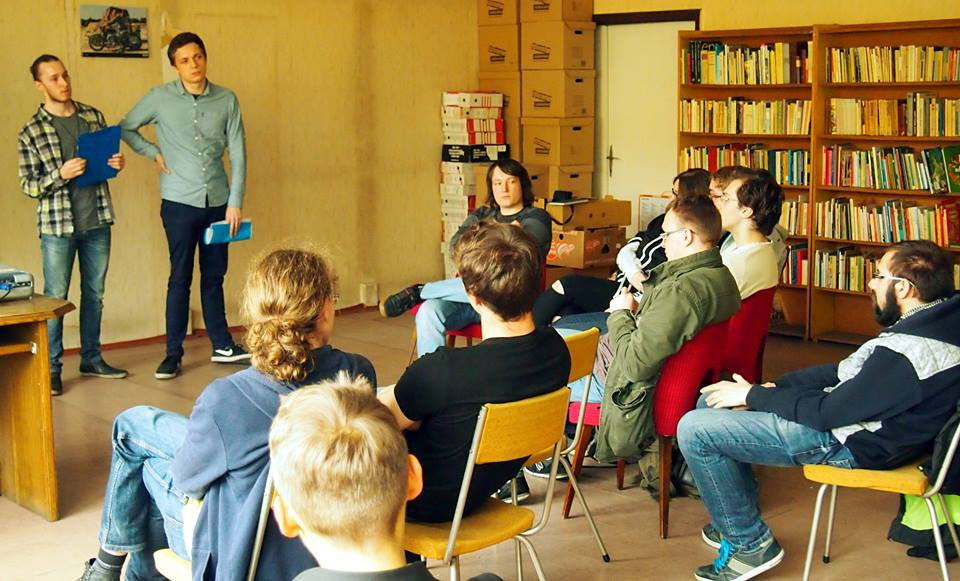
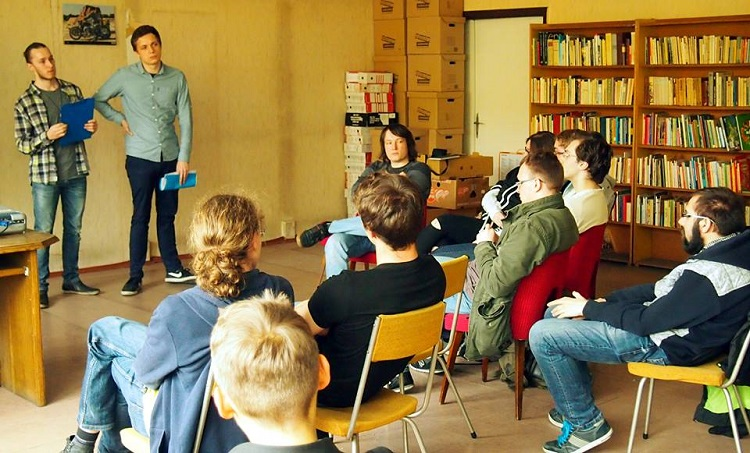
Optymalizacja obrazków/Nowość w Aktualnościach

diff --git a/index.html b/index.html
@@ -44,24 +44,43 @@
 					</header>
 
 				<!-- Main -->
-					<div id="main">
+										<!--Skrypt na pokaż więcej -->
 
-    <!-- Newsy -->
-							<article id="news">
-                                <h1 class="major">Newsy i aktualności <br> o naszym polskim systemie RPG<br>
-                             <h2 class="major"><br><br>Będziemy w Poznaniu!<br>
-                            </b></h2>
-						
-						<!--Skrypt na pokaż więcej -->
+					<div id="main">
 						        <script type="text/javascript" language="JavaScript">
-<!--
+
   function flip(rid)
   {
     current=(document.getElementById(rid).style.display == 'none') ? 'block' : 'none';
     document.getElementById(rid).style.display = current;
   }
-//-->
+
 </script>
+    <!-- Newsy -->
+							<article id="news">
+                                <h1 class="major">Newsy i aktualności <br> o naszym polskim systemie RPG<br>
+									
+									
+									 <h2 class="major"><br><br> Oficjalna Strona Lands of Despair!<br>
+                            </h2>
+						
+
+						
+                        <span class="image main"><img src="images/web.png" alt="" /></span><br>
+                        <A HREF="#" ONCLICK="flip('strona'); return false;"><B><center><h2><u>Czytaj więcej<br><br></u></h2></center></B></A>
+                        <SPAN ID="strona"><SCRIPT LANGUAGE="JAVASCRIPT">flip('strona');</SCRIPT><div>
+                                <p>30 maja  <b>Lands of Despair</b> doczekał się pierwszej oficjalnej wersji strony internetowej. Po kilku tygodniach wytężonej pracy prezentujemy oficjalną witrynę naszego systemu RPG, na którym znajdziecie podstawowe informacje na temat projektu, planowane wydarzenia a także postęp prac nad systemem. W najbliższej przyszłości dołożymy wszelkich starań aby uzupełnić witrynę wiedzą i wiadomościami o świecie i mechanice naszej gry, do tego czasu zapraszamy do przejrzenia wątków już istniejących :). 
+                        </p>
+                             
+							</div></SPAN>
+									
+									
+									
+									
+                             <h2 class="major"><br><br>Będziemy w Poznaniu!<br>
+                            </h2>
+						
+
 						
                         <span class="image main"><img src="images/drugaera.png" alt="" /></span><br>
                         <A HREF="#" ONCLICK="flip('era'); return false;"><B><center><h2><u>Czytaj więcej<br><br></u></h2></center></B></A>
@@ -70,11 +89,11 @@
                                 Link do wydarzenia na Facebooku: <a href=https://web.facebook.com/events/1843129099293613/?acontext=%7B%22ref%22%3A%223%22%2C%22ref_newsfeed_story_type%22%3A%22regular%22%2C%22action_history%22%3A%22null%22%7D><b>TUTAJ</b>.</a><br><br>
                         </p>
                              
-                          </div></span>
+							</div></SPAN>
                                 
 						
 						      <h2 class="major">Relacja z I Otwartych Testów!<br>
-                            </b></h2>
+                            </h2>
                         <span class="image main"><img src="images/artykuly/3-min.jpg" alt="" /></span><br>
                         <A HREF="#" ONCLICK="flip('cb'); return false;"><B><center><h2><u>Czytaj więcej<br><br></u></h2></center></B></A>
                         <SPAN ID="cb"><SCRIPT LANGUAGE="JAVASCRIPT">flip('cb');</SCRIPT><div>
@@ -82,7 +101,7 @@
                                 Zobacz zdjęcia w galerii: <a href=#galeria><b>TUTAJ</b>.</a><br><br>
                         </p>
                              
-                          </div></span>
+							</div></SPAN>
                                 
 						
                        
@@ -94,7 +113,7 @@
                                     <p>W piękne, słoneczne sobotnie popołudnie 13.05.207 po raz pierwszy w historii projektu zanurzyliśmy się w mroczny śwat Krain Rozpaczy wraz z graczami Inowrocławskiego klubu fantastyki "CERBER"!. Zabawa była wyśmienita, uzyskaliśmy opinie, reakcje i odczucia. <br>Zobacz zdjęcia! <a href="http://landsofdespair.pl/#galeria"><b>TUTAJ</b>.</a><br> Zabieramy się do pracy, a już teraz chcielibyśmy gorąco zaprosić wszystkich zainteresowanych na najbliższą prezentację i otwarte testy Lands of Despair w Poznaniu!<br> Więcej info <a href="https://www.facebook.com/events/1843129099293613/"><b>TUTAJ</b>.</a><br><right> Serdecznie Zapraszamy!</right>.<br><br>
                         </p>
                                     
-                                    </div></span>
+									</div></SPAN>
                         
                       
                             
@@ -106,7 +125,7 @@
 								
 								
                         <h2 class="major">Prezentacja w "Maskonie"!<br>
-                            5.05.2017 Bydgoszcz</b></h2>
+                            5.05.2017 Bydgoszcz</h2>
                         <span class="image main"><img src="images/maskon.jpg" alt="" /></span><br>
                         <A HREF="#" ONCLICK="flip('maskon'); return false;"><B><center><h2><u>Czytaj więcej<br><br></u></h2></center></B></A>
                         <SPAN ID="maskon"><SCRIPT LANGUAGE="JAVASCRIPT">flip('maskon');</SCRIPT><div>
@@ -114,8 +133,7 @@
                                 Link do wydarzenia na Facebooku: <a href=https://web.facebook.com/LandsofDespair/posts/424702414569066><b>TUTAJ</b>.</a><br><br>
                         </p>
                              
-                          </div></span>
-                        
+							</div></SPAN>
                         
                         
                         
@@ -142,7 +160,7 @@
 <input type="button" onclick="location.href='http://landsofdespair.pl/#rasy';" value="Rasy" />		
 <input type="button" onclick="location.href='http://landsofdespair.pl/#klasy';" value="Klasy" />	
 <input type="button" onclick="location.href='http://landsofdespair.pl/#moduls';" value="Modułowość" />
-<input type="button" onclick="location.href='http://landsofdespair.pl/#wytrzymalosc';" value="Wytrzymałość" />	
+
 <input type="button" onclick="location.href='http://landsofdespair.pl/#calendar';" value="Kalendarz" />									   
                                
                                
@@ -167,13 +185,13 @@
 <input type="button" onclick="location.href='http://landsofdespair.pl/#rasy';" value="Rasy" />		
 <input type="button" onclick="location.href='http://landsofdespair.pl/#klasy';" value="Klasy" />	
 <input type="button" onclick="location.href='http://landsofdespair.pl/#moduls';" value="Modułowość" />
-<input type="button" onclick="location.href='http://landsofdespair.pl/#wytrzymalosc';" value="Wytrzymałość" />	
+
 <input type="button" onclick="location.href='http://landsofdespair.pl/#calendar';" value="Kalendarz" />									   
                             <br><br></div>
 								<h2 class="major">Koncept</h2>
                
 								<span class="image main"><img src="images/logo.png" alt="" /></span><br><br>
-								<p>Lands of Despair jest autorskim systemem RPG tworzonym przez grupę przyjaciół zafascynowanych Role Play'em. Jesteśmy bardzo niewielką grupą graczy, która od wielu lat hobbistycznie gra i interesuje się systemami RPG. W pewnej chwili założenia rozgrywki systemów, z jakimi mieliśmy styczność, były tak rozbieżne z tym, czego oczekiwaliśmy, że postanowiliśmy działać. Zamiast szukać idealnego dla nas systemu spośród wszystkich (a jest ich niemało), zdecydowaliśmy się na stworzenie własnego, zupełnie od podstaw. <br><br> 
+								<p>Lands of Despair jest polskim systemem RPG tworzonym przez grupę przyjaciół zafascynowanych Role Play'em i światami Dark Fantasy takimi jak Warhammer. Jesteśmy bardzo niewielką grupą graczy, która od wielu lat hobbistycznie gra i interesuje się systemami RPG. W pewnej chwili założenia rozgrywki systemów, z jakimi mieliśmy styczność, były tak rozbieżne z tym, czego oczekiwaliśmy, że postanowiliśmy działać. Zamiast szukać idealnego dla nas systemu spośród wszystkich (a jest ich niemało), lub modyfikowac po raz setny poczciwego Warhammer 'a  zdecydowaliśmy się na stworzenie własnego, zupełnie od podstaw.<font style='opacity:0;'>Warhammer, Warhammer 2ed, Polskie RPG, D&D</font> <br><br> 
 Za cel stawiamy sobie stworzenie mechaniki gry w taki sposób, by stawiała wyzwanie przed graczami, jednocześnie była rozbudowana, lecz prosta i intuicyjna. Za najważniejsze cechy systemu uznaliśmy:<br><br>
 • Jasny i prosty system rozwoju Bohatera i Umiejętności, umożliwiający wiele ścieżek rozgrywki.<br>
 • Cały system rozgrywki jest niemal w całości pozbawionych liczb. Chcemy w ten sposób ułatwić graczowi rozgrywkę, jednocześnie nie rezygnując ze skomplikowania i rozbudowania mechanizmów prowadzących grę.<br>
@@ -181,7 +199,7 @@ Za cel stawiamy sobie stworzenie mechaniki gry w taki sposób, by stawiała wyzw
 • Duży nacisk na rozgrywkę fabularną, skupienie się na osobowości graczy i zwrócenie uwagi na potrzeby Bohatera, takie jak Głód, Zmęczenie czy Zdrowie Psychiczne.<br>
 • Zupełnie inne, w porównaniu do wszystkich znanych nam systemów, podejście do Magii w grze. Używanie jej jest zupełnie dowolne, Gracz może manipulować zaklęciami wedle własnej woli, jednak jest to w pewien sposób ograniczone.<br>
 • Zupełnie autorski świat, całe uniwersum, niepozbawione swojej historii, map, podziału politycznego i wiele innych. <br>
-• I w końcu elastyczność w dobieraniu elementów prowadzenia rozgrywki. Grając w Lands of Despair, grający sami określają jaki elementy zaproponowane przez nas, zostaną przeniesione do ich rozgrywki. W prosty i nie destrukcyjny sposób dla jakości rozgrywki, wiele elementów może zostać pominiętych, lub uproszczonych.<br>
+									• I w końcu elastyczność w dobieraniu elementów prowadzenia rozgrywki. Grając w Lands of Despair, grający sami określają jaki elementy zaproponowane przez nas, zostaną przeniesione do ich rozgrywki. W prosty i nie destrukcyjny sposób dla jakości rozgrywki, wiele elementów może zostać pominiętych, lub uproszczonych.<br>
     </p>
                             
                         </article>
@@ -194,7 +212,7 @@ Za cel stawiamy sobie stworzenie mechaniki gry w taki sposób, by stawiała wyzw
 <input type="button" onclick="location.href='http://landsofdespair.pl/#rasy';" value="Rasy" />		
 <input type="button" onclick="location.href='http://landsofdespair.pl/#klasy';" value="Klasy" />	
 <input type="button" onclick="location.href='http://landsofdespair.pl/#moduls';" value="Modułowość" />
-<input type="button" onclick="location.href='http://landsofdespair.pl/#wytrzymalosc';" value="Wytrzymałość" />	
+
 <input type="button" onclick="location.href='http://landsofdespair.pl/#calendar';" value="Kalendarz" />									   
                                 <br><br></div>
 								<h2 class="major">Kalendarz</h2>
@@ -226,7 +244,7 @@ Za cel stawiamy sobie stworzenie mechaniki gry w taki sposób, by stawiała wyzw
 <input type="button" onclick="location.href='http://landsofdespair.pl/#rasy';" value="Rasy" />		
 <input type="button" onclick="location.href='http://landsofdespair.pl/#klasy';" value="Klasy" />	
 <input type="button" onclick="location.href='http://landsofdespair.pl/#moduls';" value="Modułowość" />
-<input type="button" onclick="location.href='http://landsofdespair.pl/#wytrzymalosc';" value="Wytrzymałość" />	
+
 <input type="button" onclick="location.href='http://landsofdespair.pl/#calendar';" value="Kalendarz" />									                         
                                 <br><br></div>
 								<h2 class="major">Modułowość</h2>
@@ -238,31 +256,15 @@ Modułowość sprawia, że system jest przystępny dla zupełnie każdej grupy g
 Nie ma absolutnie żadnych przeszkód, by z czasem, podczas rozgrywania coraz to kolejnych scenariuszy czy kampanii, dokładać ów moduły do swojej rozgrywki!<br><br>
 Lista modułów:<br>
 <ul>
-                    <li><b>Wytrzymałośc</b> - Moduł wprowadzający do gry element poszerzający odzwierciedlenie stanu zdrowa Bohatera. Przy jego wykorzystaniu Mistrz Gry może kontrolować i wpływać na poziom Głodu, Zmęczenia oraz Stanu Psychicznego Bohaterów, a przed Graczami stanie wyzwanie polegające na zaspokajaniu podstawowych potrzeb swoich protagonistów. Pozwala to na pogłębienie immersji, lepsze określenie stanu prowadzonych przez Graczy Bohaterów i wprowadzenie wyzwania. Koniec z wielodziennymi wyprawami, podczas których Bohaterowie nie sypiają, żadko jedzą, a rozmaite przeżycia nie mają wpływu na ich stan psychiczny!</li><br>
-                    <li><b>Osobowość</b> - Nierzadko zjawisko <i>bezbarwności</i> Bohaterów, tudzież brak charakteru, czy spójnych cech osobowości, doskwiera bardziej doświadczonym graczom. My również zauważyliśmy ów problem i proponujemy proste i skuteczne rozwiązanie. Stosując moduł Osobowości Gracze mają szansę przypisać szereg cech osobowości Bohatera, a Mistrz Gry podczas rozgrywki może wręcz egzekwować ich przestrzegania. Oczywiście Bohater ma prawo zmienić się wraz z czasem, niekiedy rozmaite doświadczenia wpływają na jego charakter, na to również zwróciliśmy naszą uwagę - W podręczniku do gry znajdą się odpowiednie zasady regulujące korzystanie z ów narzędzia. Gwarantujmy, że moduł Osobowości diametralnie zmieni nudnych, nieciekawych protagonistów, w pełnych, określonych, posiadających charakter Bohaterów!</li><br>
+    <li><b>Wytrzymałośc</b> - Moduł wprowadzający do gry element poszerzający odzwierciedlenie stanu zdrowa Bohatera. Przy jego wykorzystaniu Mistrz Gry może kontrolować i wpływać na poziom Głodu, Zmęczenia oraz Stanu Psychicznego Bohaterów, a przed Graczami stanie wyzwanie polegające na zaspokajaniu podstawowych potrzeb swoich protagonistów. Pozwala to na pogłębienie immersji, lepsze określenie stanu prowadzonych przez Graczy Bohaterów i wprowadzenie wyzwania. Koniec z wielodziennymi wyprawami, podczas których Bohaterowie nie sypiają, żadko jedzą, a rozmaite przeżycia nie mają wpływu na ich stan psychiczny!</li><br>
+    <li><b>Osobowość</b> - Nierzadko zjawisko <i>bezbarwności</i> Bohaterów, tudzież brak charakteru, czy spójnych cech osobowości, doskwiera bardziej doświadczonym graczom. My również zauważyliśmy ów problem i proponujemy proste i skuteczne rozwiązanie. Stosując moduł Osobowości Gracze mają szansę przypisać szereg cech osobowości Bohatera, a Mistrz Gry podczas rozgrywki może wręcz egzekwować ich przestrzegania. Oczywiście Bohater ma prawo zmienić się wraz z czasem, niekiedy rozmaite doświadczenia wpływają na jego charakter, na to również zwróciliśmy naszą uwagę - W podręczniku do gry znajdą się odpowiednie zasady regulujące korzystanie z ów narzędzia. Gwarantujmy, że moduł Osobowości diametralnie zmieni nudnych, nieciekawych protagonistów, w pełnych, określonych, posiadających charakter Bohaterów!</li><br>
     <li><b>Plansza Bitewna</b> - Notorycznym problemem podczas sesji są kłutnie spowodowane różnorakim wyobrażeniem sobie miejsca akcji, na którym toczy się walka. Każdy gracz jest wyjątkowy i w zupełnie inny sposób wyobraża sobie otoczenie, a Mistrz Gry jest tylko człowiekiem i nie jest w stanie opisać każdego drzewa znajdującego się w lesie tak, by wszyscy postrzegali miejsce rozgrywania się bitwy jednakowo. Z pomocą przychodzi moduł Planszy Bitewnej. Skonstruowana na bazie hexów (sześciokątów foremnych) plansza pozwala precyzyjnie określić znajdujące się na polu walki elementy, przeszkody, określić położenie Bohaterów Graczy oraz antagonistów. Proste i logicznie rozwiązane reguły prowadzenia walki w oparciu o planszę pozwalają na taktyczne rozgrywanie bitew, a przede wszystkim eliminują nieporozumienia związane z trdnością przedstawienia miejsca akcji.</li><br>
+	
+	  <li><b>System Rzemiosła</b> - Kolejnym z przygotowywanych przez nas modułów jest popularny głównie w grach komputerowych crafting. System Rzemiosła w naszym systemie RPG to proste, wygodne a co najważniejsze niezwykle ciekawe narzędzie mające na celu oddanie w ręce gracza dodatkowych możliwości odgrywania swojej postaci i wejścia w świat mrocznej codzienności Lands of Despair jeszcze bardziej. System rzemiosła nie jest jedynie ukłonem w stronę graczy ale także świetnym modułem dla mistrzów chcących wyegzekwować na swoich graczach elementy podnoszące realizm i wiarygodność świata takie jak: zarabianie, przygotowywanie dla siebie sprzętu i posiłków czy też  odgrywanie postaci na podstawie jej profesji. </li><br>
 </ul>
     </p>
                         </article>
-                <article id="wytrzymalosc">
-                    
-                            <div id=nawigacja>
-                        <h2>O grze</h2>    
-<input type="button" onclick="location.href='http://landsofdespair.pl/#ogrze';" value="O grze" />
-<input type="button" onclick="location.href='http://landsofdespair.pl/#kontynent';" value="Kontynent" />
-<input type="button" onclick="location.href='http://landsofdespair.pl/#historia';" value="Historia" />
-<input type="button" onclick="location.href='http://landsofdespair.pl/#rasy';" value="Rasy" />		
-<input type="button" onclick="location.href='http://landsofdespair.pl/#klasy';" value="Klasy" />	
-<input type="button" onclick="location.href='http://landsofdespair.pl/#moduls';" value="Modułowość" />
-<input type="button" onclick="location.href='http://landsofdespair.pl/#wytrzymalosc';" value="Wytrzymałość" />	
-<input type="button" onclick="location.href='http://landsofdespair.pl/#calendar';" value="Kalendarz" />									                          
-                                <br><br></div>
-								<h2 class="major">Wytrzymałość</h2>
-               
-								<span class="image main"><img src="images/download/kartawytrzymaloscikolor.jpg" alt="" /></span><br><br>
-								 <p>W celu pogłębienia immersji grających zdecydowaliśmy się stworzyć mechanizm odzwierciedlający poziomy podstawowych potrzeb życiowych Bohatera, tj. Głód, Zmęczenie, Zdrowie Psychiczne. Przygotowaliśmy proste zasady pozwalające na bieżąco kontrolować ów potrzeby Bohatera. W sytuacji, gdy poziom danej potrzeby Bohatera jest ujemny - Gracz kontrolujący ów Bohatera będzie otrzymywał ujemne modyfikatory do testów, a w krytycznych momentach MG może zadecydować, że zaniedbany Bohater traci przytomność, zasypia ze zmęczenia, lub wymiotuje, będąć świadkiem krwawych tortur.<br><br>
-                    Cały Moduł Wytrzymałości jest w pełn opcjonalny i ma za zadanie pogłębiać doświadczenia płynące z rozgrywki. Zalecamy korzystanie z tego rozwiązania dla wprawionych graczy, szukających wyzwania.</p>
-                        </article>
+                
                 <article id="kontynent">
                             <div id=nawigacja>
                         <h2>O grze</h2>    
@@ -272,7 +274,7 @@ Lista modułów:<br>
 <input type="button" onclick="location.href='http://landsofdespair.pl/#rasy';" value="Rasy" />		
 <input type="button" onclick="location.href='http://landsofdespair.pl/#klasy';" value="Klasy" />	
 <input type="button" onclick="location.href='http://landsofdespair.pl/#moduls';" value="Modułowość" />
-<input type="button" onclick="location.href='http://landsofdespair.pl/#wytrzymalosc';" value="Wytrzymałość" />	
+
 <input type="button" onclick="location.href='http://landsofdespair.pl/#calendar';" value="Kalendarz" />									   
 								
 								
@@ -280,7 +282,14 @@ Lista modułów:<br>
 								<h2 class="major">Świat Lands of Despair</h2>
                
 								<span class="image main"><img src="images/mapa.jpg" alt="" /></span><br><br>
-								<p>
+								<p>Mamy doczynienia z naprawdę dużym i różnorodnym światem
+zamieszkałym przez trzy wyjątkowe rasy, w którym każdy znajdzie idealny zakątek do prowadzenia
+własnej kampanii. Różnorodność terenów Kontynentu wiąże się również z dziesiątkami niezwykłych
+bestii, roślin czy stylów architektonicznych. Idealnie komponuje się to z mechaniką naszej gry i
+pozwala Wam graczom na stworzenie unikalnych bestii czy też przygód w, którymkolwiek z zakątków
+Kontynentu. Świat Lands of Despair jest tak bogaty, że informacje z podręcznika to tylko czubek góry
+lodowej i kto wie czy nie będziemy chcieli wydać Kompendium o Świecie aby każdy kto chce mógł się
+jeszcze mocniej zagłębić w proponowane przez nas uniwersum.
 
     </p>
                         </article>
@@ -293,7 +302,7 @@ Lista modułów:<br>
 <input type="button" onclick="location.href='http://landsofdespair.pl/#rasy';" value="Rasy" />		
 <input type="button" onclick="location.href='http://landsofdespair.pl/#klasy';" value="Klasy" />	
 <input type="button" onclick="location.href='http://landsofdespair.pl/#moduls';" value="Modułowość" />
-<input type="button" onclick="location.href='http://landsofdespair.pl/#wytrzymalosc';" value="Wytrzymałość" />	
+
 <input type="button" onclick="location.href='http://landsofdespair.pl/#calendar';" value="Kalendarz" />									   
                                 <br><br></div>
 								<h2 class="major">Rasy Kontynentu</h2>
@@ -322,7 +331,7 @@ Są najodporniejszą z wszystkich ras, wyśmienicie sprawdzająca się w boju, o
 <input type="button" onclick="location.href='http://landsofdespair.pl/#rasy';" value="Rasy" />		
 <input type="button" onclick="location.href='http://landsofdespair.pl/#klasy';" value="Klasy" />	
 <input type="button" onclick="location.href='http://landsofdespair.pl/#moduls';" value="Modułowość" />
-<input type="button" onclick="location.href='http://landsofdespair.pl/#wytrzymalosc';" value="Wytrzymałość" />	
+
 <input type="button" onclick="location.href='http://landsofdespair.pl/#calendar';" value="Kalendarz" />									   
                                 <br><br></div>
 								<h2 class="major">Klasowość/Zawody</h2>
@@ -330,7 +339,7 @@ Są najodporniejszą z wszystkich ras, wyśmienicie sprawdzająca się w boju, o
 								<span class="image main"><img src="images/logo.png" alt="" /></span><br><br>
 								<p>
 Jako doświadczeni gracze zauważyliśmy, że klasowość w grach RPG wypada zazwyczaj umiarkowanie dobrze. Zawodów do wyboru jest albo dużo, lecz nie przekładają się praktycznie na rozgrywkę, albo niewiele, i nie każdy grający znajdzie coś dla siebie. Zdecydowaliśmy się odejść od standardowej listy przygotowanych przez nas zawodów, by pozwolić grającym na zupełną dowolność. Stworzyliśmy kilka prostych reguł, według których w przysłowiowe 5 minut można stworzyć grywalny zawód. Dzięki takiemu rozwiązaniu możliwości są praktycznie nieograniczone. Każda sesja czy scenariusz może być zupełnie indywidualnym dośiwadczeniem, bo przecież żadko zdarza sie, że mamy szansę zagrać <i>Dworskim nauczycielem szermierki</i>, albo <i>Królewskim błaznem</i>. <br><br>
-Wybór klasy owocuje otrzymaniem kilku stałych Pozoimów rozwinięcia Atrybutów (np. Gwardzista otrzyma poziom rozwinięcia Siły i Budowy), pęczek poziomów rozwinięcia konkretnych Umiejętności (np. Gwardzista otrzymałby Punkt dla zbioru Obrona, Broń Lekka, Atletyka), oraz umiejętność specjalna, która może być zdolnością pasywną (np. Złodziej może otrzymać zdolność "<i>Włamywacz</i> - Jednorazowo pomija test otwierania zamków"). <br>
+Wybór klasy owocuje otrzymaniem kilku stałych Pozoimów rozwinięcia Atrybutów (np. Gwardzista otrzyma poziom rozwinięcia Siły i Budowy), pęczek poziomów rozwinięcia konkretnych Umiejętności (np. Gwardzista otrzymałby Punkt dla zbioru Obrona, Broń Lekka, Atletyka), oraz umiejętność specjalna, która może być zdolnością pasywną (np. Złodziej może otrzymać zdolność "<i>Włamywacz</i> - Jednorazowo pomija test otwierania zamków"). <br><br>
 Ważne jest, by skrupulatnie przestrzegać zasad rozgrywki w kontekście korzystania z umiejętności specjalnych - Taka zdolność może być wykorzystana raz na dzień rozgrywki, oraz podczas procesu tworzenia takiej Klasy, zaleca się zachować ostrożność, by grający nie otrzymał zbyt poteżnych narzędzi. W kwestii tworzenia zawodów MG ma absolutną rację.
     </p>
                         </article>

diff --git a/galeria.html b/galeria.html
@@ -2,16 +2,14 @@
 
 <html lang='PL'>
 	<head>
-        <link href='http://fonts.googleapis.com/css?family=Alegreya+SC&subset=latin,latin-ext' rel='stylesheet' type='text/css'>
+       
 		<title>Lands of Despair | Polski RPG</title>
 		<meta charset="utf-8" />
         <meta name="description" content="Autorski system RPG w klimacie Dark-Fantasy. Tworzony przez Bydgoskich studentów dla nowych jak graczy jak i weteranów gatunku.">
           <meta name="keywords" content="Lands of Despair,RPG,Dark Fantasy,Tabletop RPG, RPG Bydgoszcz">
         <meta name="author" content="Marcin Zieliński">
 		<meta name="viewport" content="width=device-width, initial-scale=1, user-scalable=no" />
-		<link rel="stylesheet" href="assets/css/main.css" />
-		<!--[if lte IE 9]><link rel="stylesheet" href="assets/css/ie9.css" /><![endif]-->
-		<noscript><link rel="stylesheet" href="assets/css/noscript.css" /></noscript>
+	
 
 	</head>
 	<body>
@@ -105,4 +103,9 @@
     <img src="images/cerber/7.jpg" />
   </div>
 					</article>
+	
+		<link rel="stylesheet" href="assets/css/main.css" />
+		<!--[if lte IE 9]><link rel="stylesheet" href="assets/css/ie9.css" /><![endif]-->
+		<noscript><link rel="stylesheet" href="assets/css/noscript.css" /></noscript>
+		 <link href='http://fonts.googleapis.com/css?family=Alegreya+SC&subset=latin,latin-ext' rel='stylesheet' type='text/css'>
 					</body>
